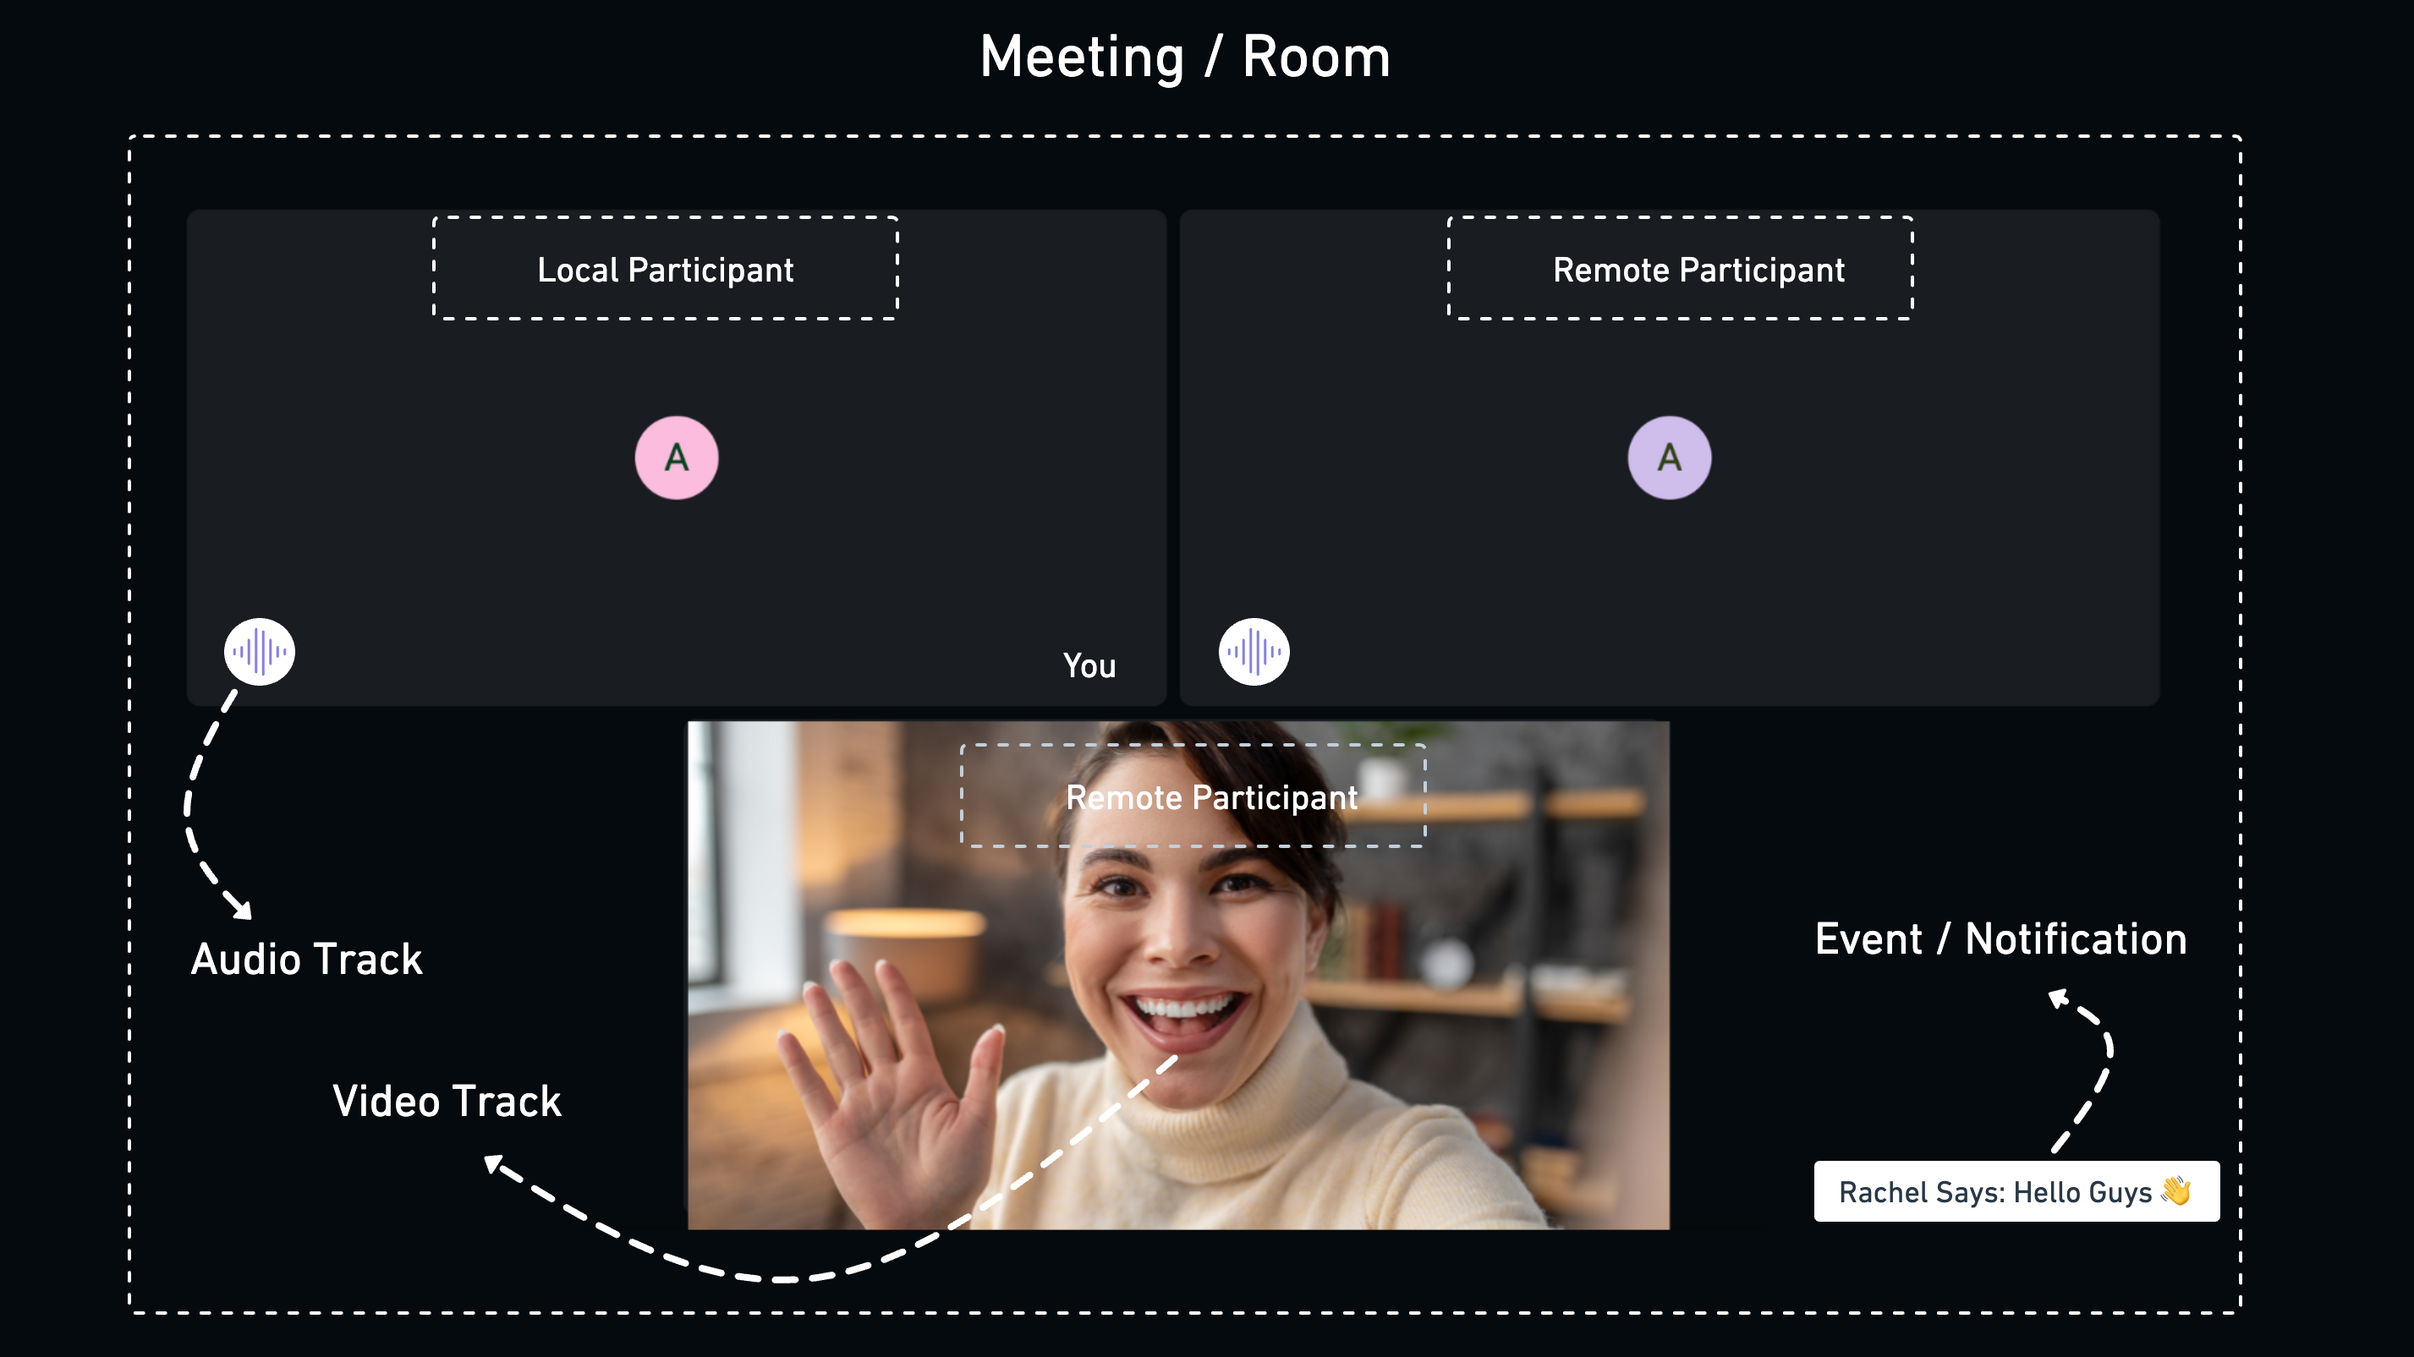
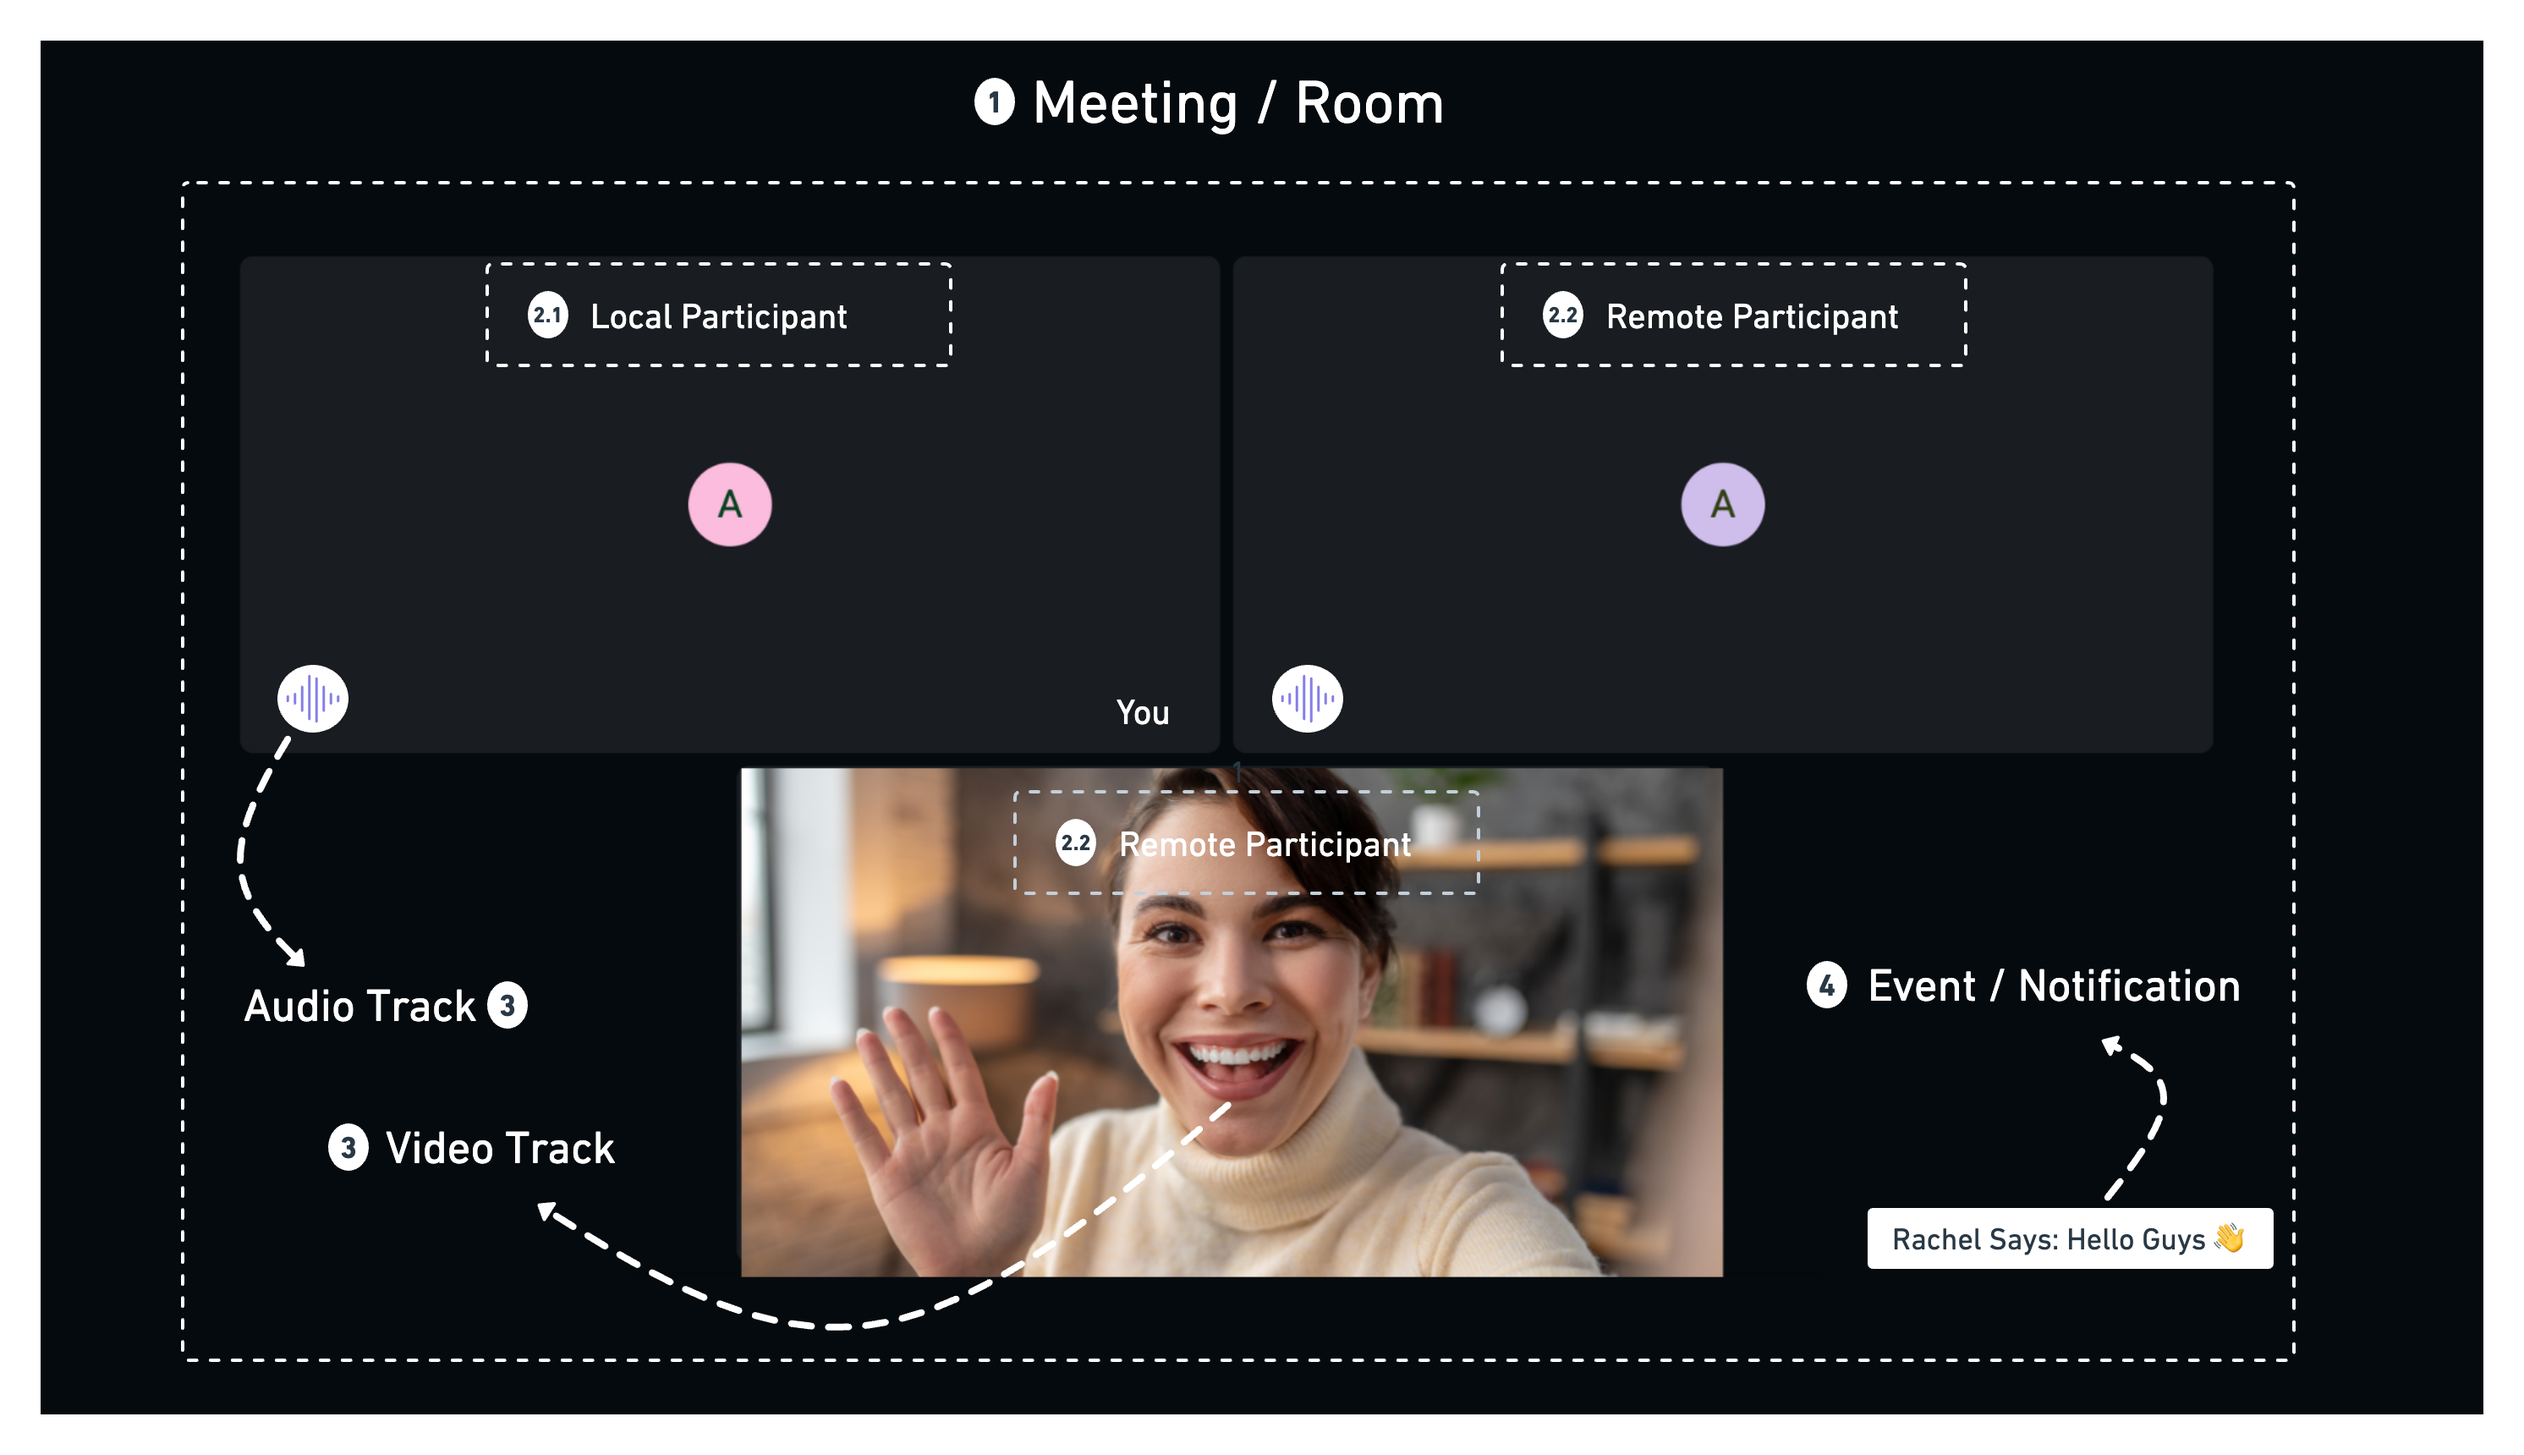
Update React Guide

diff --git a/react_docs_versioned_docs/version-0.1.x/guide/video-and-audio-calling-api-sdk/setup-call/initialise-meeting.md b/react_docs_versioned_docs/version-0.1.x/guide/video-and-audio-calling-api-sdk/setup-call/initialise-meeting.md
@@ -17,25 +17,38 @@ slug: initialise-meeting
 
 # Initialise Meeting
 
-To configure a VideoSDK meeting you require two things, first the `token` which will be used for authentication purpose and a `meetingId` which will be used define where a participant will join. Let us see each of the steps closely.
+To configure a VideoSDK meeting you require two things, first the `token` which will be used for **Authentication** purpose and a `meetingId` which will be used to specify where a participant will join. Let's see each of the steps closely.
 
 ### Generating Token
 
 You can generate a `token` in two ways:
 
-1. Using the VideoSDK [Dashboard's API Key section](https://app.videosdk.live/api-keys).
-2. If you have an backend server already setup to fetch the token, you can simply make an API call and fetch the token from your backend server.
+1. **`Serverless`** : You can visit [Dashboard's API Key section](https://app.videosdk.live/api-keys) and generate the token from there.
 
-In order to understand authenticationa and token generation in detail, [please visit here](../authentication-and-token).
+2. **`Server`** : You can setup **JWT** in backend and make an API call to get the token from your server.
+
+You can [visit here](../authentication-and-token) to learn more about **Authentication** and token in detail.
 
 ```js
+// Serverless
 const getToken = async () => {
   // Update the token here from the VideoSDK dashboard
   // highlight-next-line
-  let token = "YOUR TOKEN";
+  let token = "YOUR_TOKEN";
+};
 
-  // or you can put a fetch request to get the token from your backend
-
+// Server
+const getToken = async () => {
+  // highlight-start
+  const response = await fetch(`http://localhost:3000/get-token`, {
+    method: "GET",
+    headers: {
+      Accept: "application/json",
+      "Content-Type": "application/json",
+    },
+  });
+  const { token } = await response.json();
+  // highlight-end
   return token;
 };
 ```
@@ -77,11 +90,11 @@ const getMeetingId = async (token) => {
 
 ### Initialization of Meeting
 
-With the generated meetingId and token, we can initialize the meeting. We will use the `MeetingProvider` from the React SDK which will initialize the meeting for us and it will allow us to subscribe to the meeting changes
+We can initialize the meeting using the `MeetingProvider` from the React SDK. The `MeetingProvider` is responsible for initializing the meeting with the provided configuration, which includes the `token`, `meetingId`, `participantId` and many more.
 
 #### Meeting Provider
 
-`MeetingProvider` is Reac's [Context.Provider](https://reactjs.org/docs/context.html#contextprovider) that allows consuming components to subscribe to meeting changes.
+`MeetingProvider` is React [Context.Provider](https://reactjs.org/docs/context.html#contextprovider) that allows consuming components to subscribe to meeting changes.
 
 We will be passing the intialization configuration for the meeting and the token in the `MeetingProvider`.
 
@@ -90,70 +103,61 @@ Let's take a deeper look at the available configuration options first.
 ```js
 <MeetingProvider
   config={{
-    meetingId: "<Id-on-meeting>",
+    meetingId: "<Id-of-meeting>",
     name: "<Name-of-participant>",
     micEnabled: "<Flag-to-enable-mic>",
     webcamEnabled: "<Flag-to-enable-webcam>",
-    maxResolution: "<Maximum-resolution>", //optional,
-    participantId:'Id-of-participant' // optional, default: SDK will generate
-    multiStream: "<Flag-to-use-multiStream>", // optional, default: true
-    customCameraVideoTrack: "<Camerea-MediaStream>", // optional
-    customMicrophoneAudioTrack: "<Microphone-MediaStream>", // optional
-    mode: "<Mode-of-participant>", // optional
+    participantId: "Id-of-participant", // optional, default: SDK will generate
   }}
   token={"token"}
   joinWithoutUserInteraction // Boolean
 ></MeetingProvider>
 ```
 
-- `meetingId`: These will be the meetingId a participant is trying to join which will be in the format `xxxx-yyyy-zzzz` and will be generated using the [VideoSDK's Room API](/api-reference/realtime-communication/create-room).
+- **`meetingId`** :
 
-- `name`: These will represent the name of participant in the meeting.
+  - meetingId is unique identifiers that allow participants to join a specific meeting or room.
+  - It will be in the format of `xxx-yyy-zzz` and will be generated using the [VideoSDK's Room API](/api-reference/realtime-communication/create-room).
 
-- `micEnabled`: These is a `boolean` flag, indicating wheather the particpant mic will be enabled automatically after joining the meeting.
+- **`name`**:
 
-- `webcamEnabled`: These is a `boolean` flag, indicating wheather the particpant webcam will be enabled automatically after joining the meeting.
+  - This will represent the name of the participant in the meeting.
+  - It will accept `String`type value.
 
-- `maxResolution`: These will be the value determining the maximum resolution a participant should send.
+- **`micEnabled`**:
 
-  - It can have `sd` | `hd` as itss values.
-  - These is a an `OPTIONAL` parameter.
+  - This is a `boolean` flag, indicating whether a participant's microphone will be automatically enabled when they join a meeting.
 
-- `participantId`: These will be the unique identifer for the participant inside the meeting.
+- **`webcamEnabled`**:
 
-  - It can be used to specify the **unique identifer** which can be linked with **your own database** service.
-  - It has to be of `String` type.
-  - These is an `OPTIONAL` parameter. By defualt VideoSDK will generate unique id for each participant.
+  - This is a `boolean` flag, indicating whether a participant's webcam will be automatically enabled when they join a meeting.
 
-- `multiStream`: These is a `boolean` flag which indicates wheather VideoSDK should send multiple resolution stream for a single participant or just a single resolution stream. To understand `multiStream` in detail checkout our Video Call Optiomization Guide.
+- **`participantId`**:
 
-  - These is an `OPTIONAL` parameter. By default, VideoSDK uses `multiStream: true` to provide a smooth experince to all participants under all network conditions.
+  - This will be the unique identifer for the participant inside the meeting.
 
-- `customCameraVideoTrack`: These parameter accepts a `MediaStream` object which can be used to pass custom resolution camera stream based on your use case.
+    - It can be used to specify the **unique identifer** which can be linked with **your own database** service.
+    - It has to be of `String` type.
+    - This is an `OPTIONAL` parameter. By defualt VideoSDK will generate unique id for each participant.
 
-  - These is an `OPTIONAL` parameter. By default, VideoSDK uses a `540p` or `720p` video resolution stream based on the user's device capabilities.
-
-- `customMicrophoneAudioTrack`: These parameter accepts a `MediaStream` object which can be used to pass custom audio track based on your use case.
-
-  - These is an `OPTIONAL` parameter. By default, VideoSDK uses a `speech_standard` audio tracks which suites most use cases.
-
-- `mode`: These parameter accepts either `CONFERENCE` or `VIEWER` as its value.
-
-  - When `CONFERENCE` mode is used it will allow participant to send and receive audio and video streams in real-time.
-
-  - When `VIEWER` mode is used, the participant will not be able to receive or send nay audio and video streams. These participant will be able to perform operations like chat and raise hand which are happeing using PubSub. These mode is preferrable when using Interactive Live Streaming along side Realtime Video Conferencing.
-
-  - These is an `OPTIONAL` parameter. By default, VideoSDK uses `CONFERENCE` mode.
+:::caution
+You can ensure that the `participantId` is not repeated in the same meeting or room, which will prevent VideoSDK from removing any one of the participants.
+:::
 
 ###### Other Options for Meeting Provider
 
-- `joinWithoutInteraction`: Thse is a `boolean` flag which if set to `true`, participant will directly join the meeting with requring to explicitly calling `join()`.
+- **`joinWithoutInteraction`**:
 
-  - These is an `OPTIONAL` parameter. By default, it is set to `false` meaning, user has to manually call the `join()`
+  - This is a `boolean` flag, when set to `true`, allows a participant to join a meeting directly without explicitly calling the `join()` function.
+
+  - This is an `OPTIONAL` parameter. By default, it is set to `false` meaning, user has to manually call the `join()`
+
+To know more about other properties, you can follow [our API Reference](/react/api/sdk-reference/meeting-provider).
 
 With all the configuration options explained, here is how you will be using the `MeetingProvider`.
 
 ```js
+// importing
 import { MeetingProvider, useMeeting } from "@videosdk.live/react-sdk";
 
 const getToken = async () => {
@@ -211,6 +215,7 @@ const App = () => {
 const MeetingView = () => {
   // Get Meeting object using useMeeting hook
   const meeting = useMeeting();
+  console.log("Meeting Obj",meeting);
 
   return <>...</>;
 };

diff --git a/react_docs_versioned_docs/version-0.1.x/guide/video-and-audio-calling-api-sdk/setup-call/leave-end-meeting.md b/react_docs_versioned_docs/version-0.1.x/guide/video-and-audio-calling-api-sdk/setup-call/leave-end-meeting.md
@@ -17,7 +17,9 @@ slug: leave-end-meeting
 
 # Leave or End Meeting
 
-Participant can choose to use leave meeting without removing all the participant or leave the room by removing all the other participant resulting in the end of session.
+Participant can choose to leave the meeting without removing all the other participants. This is typically done by `Leave Meeting`.
+
+Alternatively, if the participant is the host or the last person remaining in the session, they can choose `End Meeting` by removing all other participants, which will end the session for everyone.
 
 ### `leave()`
 
@@ -65,7 +67,7 @@ const MeetingView = () => {
 ```
 
 :::tip
-You should call the `leave()` method on the unmount of your main meeting component so that meeting is left once the view is unrendered.
+You should call the `leave()` method on the unmount of your main meeting component so that meeting is left once the view is unmount.
 :::
 
 ### Events associated with Leave

diff --git a/react_docs_versioned_docs/version-0.1.x/guide/video-and-audio-calling-api-sdk/concept-and-architecture.md b/react_docs_versioned_docs/version-0.1.x/guide/video-and-audio-calling-api-sdk/concept-and-architecture.md
@@ -9,6 +9,8 @@ Before dive in to the concept, let's understand the VideSDK, VideoSDK is a softw
 
 ## Concepts
 
+![img.png](../../../../static/img/room-concept.png)
+
 ### `1. Meeting / Room`
 
 - Meeting or Room objects in the VideoSDK provide a virtual place for participants to interact and engage in real-time voice, video, and screen-sharing sessions. The object is in charge of handling media streams and participant communication.
@@ -41,7 +43,7 @@ Before dive in to the concept, let's understand the VideSDK, VideoSDK is a softw
 
 - Events / Notifications can be used to inform users about various activities happening in a Meeting / Room, including participant join/leave and new messages. They can also be used to alert users about any SDK-level errors that occur during a call.
 
-![img.png](../../../../static/img/room-concept.png)
+![img.png](../../../../static/img/recording-hls-rtmp.png)
 
 ### `5. Cloud Recording`
 

diff --git a/react_docs_versioned_docs/version-0.1.x/guide/video-and-audio-calling-api-sdk/setup-call/join-meeting.md b/react_docs_versioned_docs/version-0.1.x/guide/video-and-audio-calling-api-sdk/setup-call/join-meeting.md
@@ -35,22 +35,11 @@ Before joining the meeting, it has to be initialized. If you have not initialize
 ```js
 import { MeetingProvider, useMeeting } from "@videosdk.live/react-sdk";
 
-const getToken = async () => {
-  //highlight-next-line
-  ...
-};
-const getMeetingId = async () => {
-  //highlight-next-line
-  ...
-};
-
 const App = () => {
-  //highlight-next-line
-  ... Meeting Provider here
+  //... Meeting Provider code
 };
 
 const MeetingView = () => {
-
   //Getting the join method from hook and assigning event callbacks
   //highlight-start
   const { join } = useMeeting();
@@ -68,7 +57,6 @@ const MeetingView = () => {
     </>
   );
 };
-
 ```
 
 ### Events associated with Join
